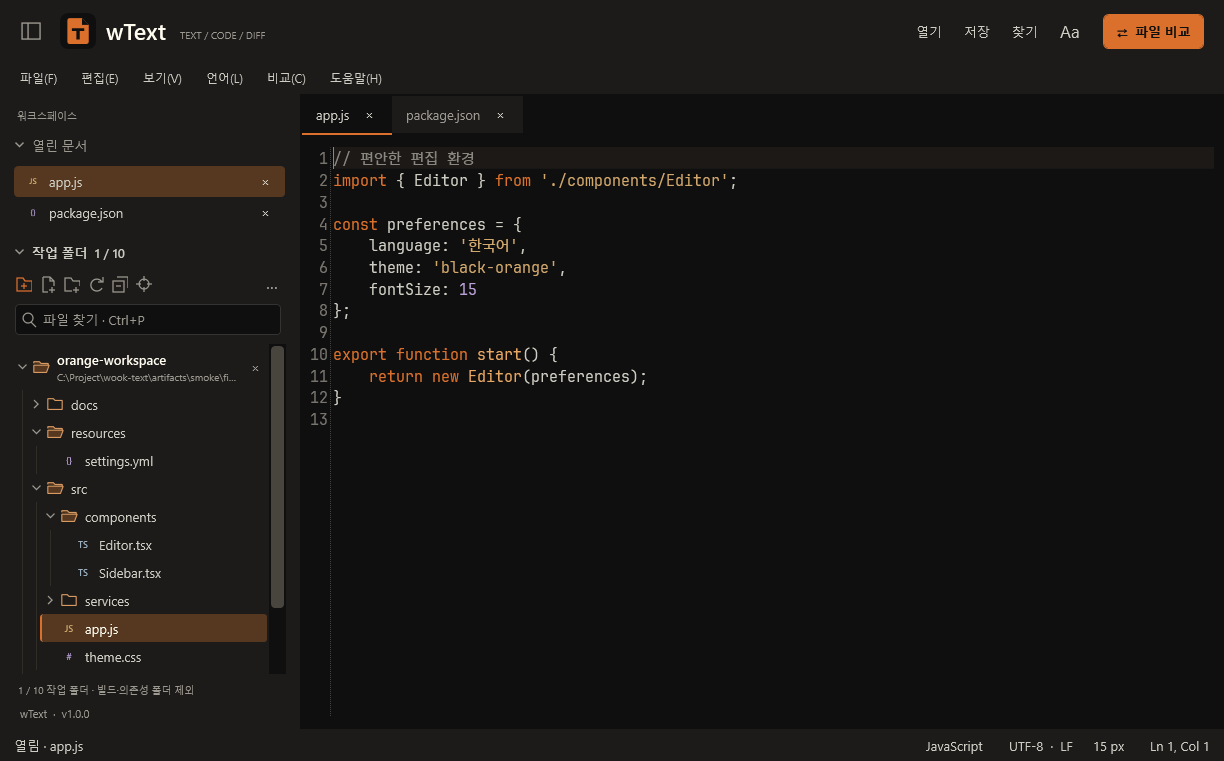
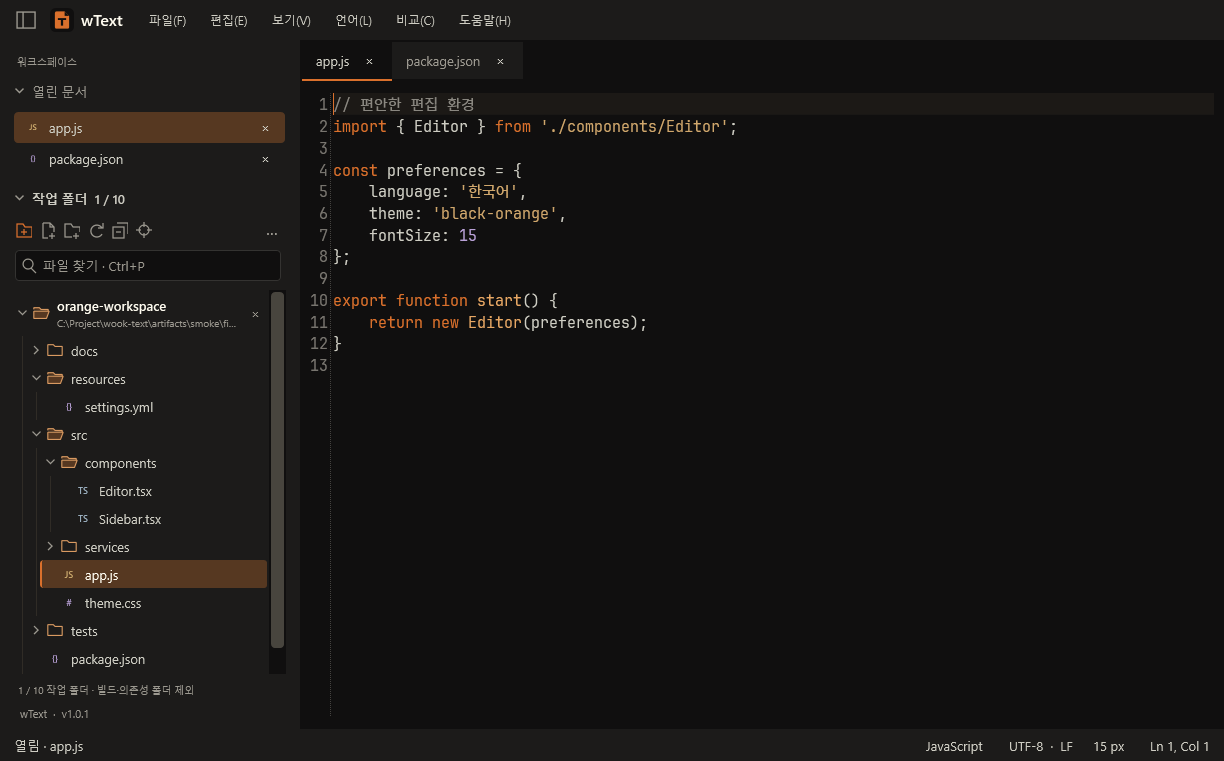
Consolidate header controls into the menu bar

diff --git a/src/WookText.App/MainWindow.xaml b/src/WookText.App/MainWindow.xaml
@@ -31,77 +31,70 @@
   </Window.InputBindings>
   <Grid x:Name="Root" Background="{StaticResource Canvas}">
     <Grid.RowDefinitions>
-      <RowDefinition x:Name="HeaderRow" Height="62" /><RowDefinition Height="Auto" />
+      <RowDefinition x:Name="HeaderRow" Height="40" />
       <RowDefinition Height="*" /><RowDefinition x:Name="StatusRow" Height="32" />
     </Grid.RowDefinitions>
     <Border x:Name="MainHeader" Background="{StaticResource Panel}" BorderThickness="0">
-      <DockPanel Margin="20,0">
-        <StackPanel DockPanel.Dock="Right" Orientation="Horizontal" VerticalAlignment="Center">
-          <Button Content="열기" Command="ApplicationCommands.Open" Margin="0,0,4,0" Style="{StaticResource FlatButton}" ToolTip="파일 열기 · Ctrl+O" />
-          <Button Content="저장" Command="ApplicationCommands.Save" Margin="0,0,4,0" Style="{StaticResource FlatButton}" ToolTip="저장 · Ctrl+S" />
-          <Button Content="찾기" Command="ApplicationCommands.Find" Margin="0,0,4,0" Style="{StaticResource FlatButton}" ToolTip="찾기 · Ctrl+F" />
-          <Button Content="Aa" Command="{x:Static local:EditorCommands.Preferences}" FontSize="17" Style="{StaticResource FlatButton}" ToolTip="글꼴 및 편집 설정 · Ctrl+," Margin="0,0,14,0" />
-          <Button Content="⇄  파일 비교" Command="{x:Static local:EditorCommands.Compare}" Style="{StaticResource AccentButton}" />
-        </StackPanel>
-        <StackPanel Orientation="Horizontal" VerticalAlignment="Center">
-          <Button x:Name="SidebarToggleButton" Command="{x:Static local:EditorCommands.ToggleSidebar}" Style="{StaticResource FlatButton}" Margin="-8,0,10,0" AutomationProperties.Name="사이드바 접기 또는 펼치기">
+      <DockPanel Margin="8,0">
+        <StackPanel DockPanel.Dock="Left" Orientation="Horizontal" VerticalAlignment="Center" Margin="0,0,14,0">
+          <Button x:Name="SidebarToggleButton" Command="{x:Static local:EditorCommands.ToggleSidebar}" Style="{StaticResource FlatButton}" Margin="0,0,6,0" Padding="8,6" AutomationProperties.Name="사이드바 접기 또는 펼치기">
             <Path Data="M 1,1 L 19,1 L 19,17 L 1,17 Z M 7,1 L 7,17" Stroke="{StaticResource Muted}" StrokeThickness="1.4" Width="20" Height="18" />
           </Button>
-          <Image Source="{StaticResource AppMark}" Width="36" Height="36" Margin="0,0,10,0" />
-          <TextBlock Text="wText" FontSize="23" FontWeight="SemiBold" Foreground="{StaticResource Bright}" VerticalAlignment="Center" />
-          <TextBlock Text="TEXT / CODE / DIFF" FontSize="10" Foreground="{StaticResource Muted}" Margin="14,7,0,0" VerticalAlignment="Center" />
+          <Image Source="{StaticResource AppMark}" Width="24" Height="24" Margin="0,0,7,0" />
+          <TextBlock Text="wText" FontSize="16" FontWeight="SemiBold" Foreground="{StaticResource Bright}" VerticalAlignment="Center" />
         </StackPanel>
+        <Menu x:Name="MainMenu" VerticalAlignment="Center" Padding="0,1" BorderThickness="0">
+          <Menu.Resources>
+            <Style TargetType="MenuItem" BasedOn="{StaticResource {x:Type MenuItem}}">
+              <Setter Property="CommandTarget" Value="{Binding}" />
+            </Style>
+          </Menu.Resources>
+          <MenuItem x:Name="FileMenu" Header="파일(_F)">
+            <MenuItem Header="새 문서" Command="ApplicationCommands.New" InputGestureText="Ctrl+N" />
+            <MenuItem Header="파일 열기…" Command="ApplicationCommands.Open" InputGestureText="Ctrl+O" />
+            <MenuItem Header="작업 폴더 추가…" Command="{x:Static local:EditorCommands.OpenFolder}" InputGestureText="Ctrl+Shift+O" />
+            <MenuItem Header="작업 폴더에서 파일 찾기…" Command="{x:Static local:EditorCommands.FindFile}" InputGestureText="Ctrl+P" />
+            <Separator />
+            <MenuItem Header="저장" Command="ApplicationCommands.Save" InputGestureText="Ctrl+S" />
+            <MenuItem Header="다른 이름으로 저장…" Command="{x:Static local:EditorCommands.SaveAs}" InputGestureText="Ctrl+Shift+S" />
+            <MenuItem Header="UTF-8로 변환" Click="OnConvertEncoding" />
+            <Separator />
+            <MenuItem Header="탭 닫기" Command="{x:Static local:EditorCommands.CloseTab}" InputGestureText="Ctrl+W" />
+            <MenuItem Header="끝내기" Click="OnExit" />
+          </MenuItem>
+          <MenuItem Header="편집(_E)">
+            <MenuItem Header="실행 취소" Click="OnUndo" InputGestureText="Ctrl+Z" />
+            <MenuItem Header="다시 실행" Click="OnRedo" InputGestureText="Ctrl+Y" />
+            <Separator />
+            <MenuItem Header="찾기" Command="ApplicationCommands.Find" InputGestureText="Ctrl+F" />
+            <MenuItem Header="바꾸기" Command="ApplicationCommands.Replace" InputGestureText="Ctrl+H" />
+          </MenuItem>
+          <MenuItem Header="보기(_V)">
+            <MenuItem x:Name="SidebarMenu" Header="사이드바 표시" IsCheckable="True" Command="{x:Static local:EditorCommands.ToggleSidebar}" InputGestureText="Ctrl+B" />
+            <MenuItem x:Name="FocusMenu" Header="집중 모드" IsCheckable="True" Command="{x:Static local:EditorCommands.ToggleFocus}" InputGestureText="F11" />
+            <MenuItem Header="탐색기에서 현재 문서 찾기" Command="{x:Static local:EditorCommands.RevealFile}" InputGestureText="Ctrl+Shift+E" />
+            <Separator />
+            <MenuItem Header="자동 줄바꿈" IsCheckable="True" Click="OnWordWrap" x:Name="WrapMenu" />
+            <MenuItem Header="줄 번호 표시" IsCheckable="True" Click="OnLineNumbers" x:Name="LineNumbersMenu" />
+            <MenuItem Header="공백 · 탭 표시" IsCheckable="True" Click="OnWhitespace" x:Name="WhitespaceMenu" />
+            <Separator />
+            <MenuItem Header="글자 크게" Command="{x:Static local:EditorCommands.ZoomIn}" InputGestureText="Ctrl++" />
+            <MenuItem Header="글자 작게" Command="{x:Static local:EditorCommands.ZoomOut}" InputGestureText="Ctrl+−" />
+            <MenuItem Header="기본 글자 크기" Command="{x:Static local:EditorCommands.ResetZoom}" InputGestureText="Ctrl+0" />
+            <MenuItem Header="글꼴 및 편집 설정…" Command="{x:Static local:EditorCommands.Preferences}" InputGestureText="Ctrl+," />
+          </MenuItem>
+          <MenuItem x:Name="LanguageMenu" Header="언어(_L)" SubmenuOpened="OnLanguageMenuOpened" />
+          <MenuItem Header="비교(_C)"><MenuItem Header="두 파일 비교…" Command="{x:Static local:EditorCommands.Compare}" InputGestureText="Ctrl+Shift+D" /></MenuItem>
+          <MenuItem Header="도움말(_H)"><MenuItem Header="GitHub 프로젝트 열기" Click="OnOpenRepository" /><MenuItem x:Name="LicensesMenu" Header="라이선스 및 오픈소스 고지" Click="OnLicenses" /><MenuItem Header="wText 정보 · Hyunwook Park" Click="OnAbout" /></MenuItem>
+        </Menu>
       </DockPanel>
     </Border>
     <DockPanel x:Name="FocusToolbar" Visibility="Collapsed" Background="{StaticResource Panel}" Margin="8,0">
       <Button DockPanel.Dock="Right" Content="집중 모드 나가기  Esc" Command="{x:Static local:EditorCommands.ToggleFocus}" Style="{StaticResource FlatButton}" Padding="12,3" />
       <TextBlock Text="wText · 집중 모드" FontSize="11" Foreground="{StaticResource Muted}" VerticalAlignment="Center" Margin="8,0" />
     </DockPanel>
-    <Menu x:Name="MainMenu" Grid.Row="1" Padding="8,1" BorderThickness="0">
-      <Menu.Resources>
-        <Style TargetType="MenuItem" BasedOn="{StaticResource {x:Type MenuItem}}">
-          <Setter Property="CommandTarget" Value="{Binding}" />
-        </Style>
-      </Menu.Resources>
-      <MenuItem x:Name="FileMenu" Header="파일(_F)">
-        <MenuItem Header="새 문서" Command="ApplicationCommands.New" InputGestureText="Ctrl+N" />
-        <MenuItem Header="파일 열기…" Command="ApplicationCommands.Open" InputGestureText="Ctrl+O" />
-        <MenuItem Header="작업 폴더 추가…" Command="{x:Static local:EditorCommands.OpenFolder}" InputGestureText="Ctrl+Shift+O" />
-        <MenuItem Header="작업 폴더에서 파일 찾기…" Command="{x:Static local:EditorCommands.FindFile}" InputGestureText="Ctrl+P" />
-        <Separator />
-        <MenuItem Header="저장" Command="ApplicationCommands.Save" InputGestureText="Ctrl+S" />
-        <MenuItem Header="다른 이름으로 저장…" Command="{x:Static local:EditorCommands.SaveAs}" InputGestureText="Ctrl+Shift+S" />
-        <MenuItem Header="UTF-8로 변환" Click="OnConvertEncoding" />
-        <Separator />
-        <MenuItem Header="탭 닫기" Command="{x:Static local:EditorCommands.CloseTab}" InputGestureText="Ctrl+W" />
-        <MenuItem Header="끝내기" Click="OnExit" />
-      </MenuItem>
-      <MenuItem Header="편집(_E)">
-        <MenuItem Header="실행 취소" Click="OnUndo" InputGestureText="Ctrl+Z" />
-        <MenuItem Header="다시 실행" Click="OnRedo" InputGestureText="Ctrl+Y" />
-        <Separator />
-        <MenuItem Header="찾기" Command="ApplicationCommands.Find" InputGestureText="Ctrl+F" />
-        <MenuItem Header="바꾸기" Command="ApplicationCommands.Replace" InputGestureText="Ctrl+H" />
-      </MenuItem>
-      <MenuItem Header="보기(_V)">
-        <MenuItem x:Name="SidebarMenu" Header="사이드바 표시" IsCheckable="True" Command="{x:Static local:EditorCommands.ToggleSidebar}" InputGestureText="Ctrl+B" />
-        <MenuItem x:Name="FocusMenu" Header="집중 모드" IsCheckable="True" Command="{x:Static local:EditorCommands.ToggleFocus}" InputGestureText="F11" />
-        <MenuItem Header="탐색기에서 현재 문서 찾기" Command="{x:Static local:EditorCommands.RevealFile}" InputGestureText="Ctrl+Shift+E" />
-        <Separator />
-        <MenuItem Header="자동 줄바꿈" IsCheckable="True" Click="OnWordWrap" x:Name="WrapMenu" />
-        <MenuItem Header="줄 번호 표시" IsCheckable="True" Click="OnLineNumbers" x:Name="LineNumbersMenu" />
-        <MenuItem Header="공백 · 탭 표시" IsCheckable="True" Click="OnWhitespace" x:Name="WhitespaceMenu" />
-        <Separator />
-        <MenuItem Header="글자 크게" Command="{x:Static local:EditorCommands.ZoomIn}" InputGestureText="Ctrl++" />
-        <MenuItem Header="글자 작게" Command="{x:Static local:EditorCommands.ZoomOut}" InputGestureText="Ctrl+−" />
-        <MenuItem Header="기본 글자 크기" Command="{x:Static local:EditorCommands.ResetZoom}" InputGestureText="Ctrl+0" />
-        <MenuItem Header="글꼴 및 편집 설정…" Command="{x:Static local:EditorCommands.Preferences}" InputGestureText="Ctrl+," />
-      </MenuItem>
-      <MenuItem x:Name="LanguageMenu" Header="언어(_L)" SubmenuOpened="OnLanguageMenuOpened" />
-      <MenuItem Header="비교(_C)"><MenuItem Header="두 파일 비교…" Command="{x:Static local:EditorCommands.Compare}" InputGestureText="Ctrl+Shift+D" /></MenuItem>
-      <MenuItem Header="도움말(_H)"><MenuItem Header="GitHub 프로젝트 열기" Click="OnOpenRepository" /><MenuItem x:Name="LicensesMenu" Header="라이선스 및 오픈소스 고지" Click="OnLicenses" /><MenuItem Header="wText 정보 · Hyunwook Park" Click="OnAbout" /></MenuItem>
-    </Menu>
-    <Grid Grid.Row="2">
+
+    <Grid Grid.Row="1">
       <Grid.ColumnDefinitions><ColumnDefinition x:Name="SidebarColumn" Width="240" MinWidth="170" MaxWidth="500" /><ColumnDefinition x:Name="SplitterColumn" Width="4" /><ColumnDefinition Width="*" MinWidth="380" /></Grid.ColumnDefinitions>
       <Border x:Name="Sidebar" Background="{StaticResource Panel}" BorderThickness="0" SizeChanged="OnSidebarSizeChanged">
         <Grid Margin="10,12,10,8">
@@ -156,7 +149,7 @@
         </TabControl>
       </Grid>
     </Grid>
-    <Border x:Name="StatusBar" Grid.Row="3" Background="{StaticResource Panel}" Padding="14,0">
+    <Border x:Name="StatusBar" Grid.Row="2" Background="{StaticResource Panel}" Padding="14,0">
       <DockPanel LastChildFill="True">
         <TextBlock x:Name="CaretStatus" DockPanel.Dock="Right" VerticalAlignment="Center" Margin="18,0,0,0" />
         <Button x:Name="FontSizeButton" DockPanel.Dock="Right" Command="{x:Static local:EditorCommands.Preferences}" Style="{StaticResource FlatButton}" Padding="8,2" Margin="12,0,0,0" ToolTip="글꼴 설정 · Ctrl+마우스 휠로 크기 조절" />

diff --git a/src/WookText.App/MainWindow.xaml.cs b/src/WookText.App/MainWindow.xaml.cs
@@ -523,7 +523,7 @@ public partial class MainWindow : Window
             ExplorerSection.IsExpanded = preferences.ExplorerExpanded;
             MainHeader.Visibility = MainMenu.Visibility = _focusMode ? Visibility.Collapsed : Visibility.Visible;
             FocusToolbar.Visibility = _focusMode ? Visibility.Visible : Visibility.Collapsed;
-            HeaderRow.Height = new GridLength(_focusMode ? 34 : 62);
+            HeaderRow.Height = new GridLength(_focusMode ? 34 : 40);
             StatusRow.Height = new GridLength(_focusMode ? 0 : 32);
             StatusBar.Visibility = _focusMode ? Visibility.Collapsed : Visibility.Visible;
             SidebarToggleButton.ToolTip = showSidebar ? "사이드바 접기 · Ctrl+B" : "사이드바 펼치기 · Ctrl+B";

diff --git a/CHANGELOG.md b/CHANGELOG.md
@@ -1,5 +1,9 @@
 # Changelog
 
+## Unreleased
+
+- 상단의 중복 열기·저장·찾기·Aa·파일 비교 버튼을 제거하고 사이드바 토글·앱 아이콘·wText를 파일 메뉴 왼쪽에 한 줄로 배치해 편집 공간 확보.
+
 ## 1.0.1 — 2026-10-10
 
 - 설치 마법사에 ‘바탕화면에 wText 바로가기 만들기’ 옵션 추가; 처음에는 선택하고 재설치·업그레이드 시 이전 선택 유지.
